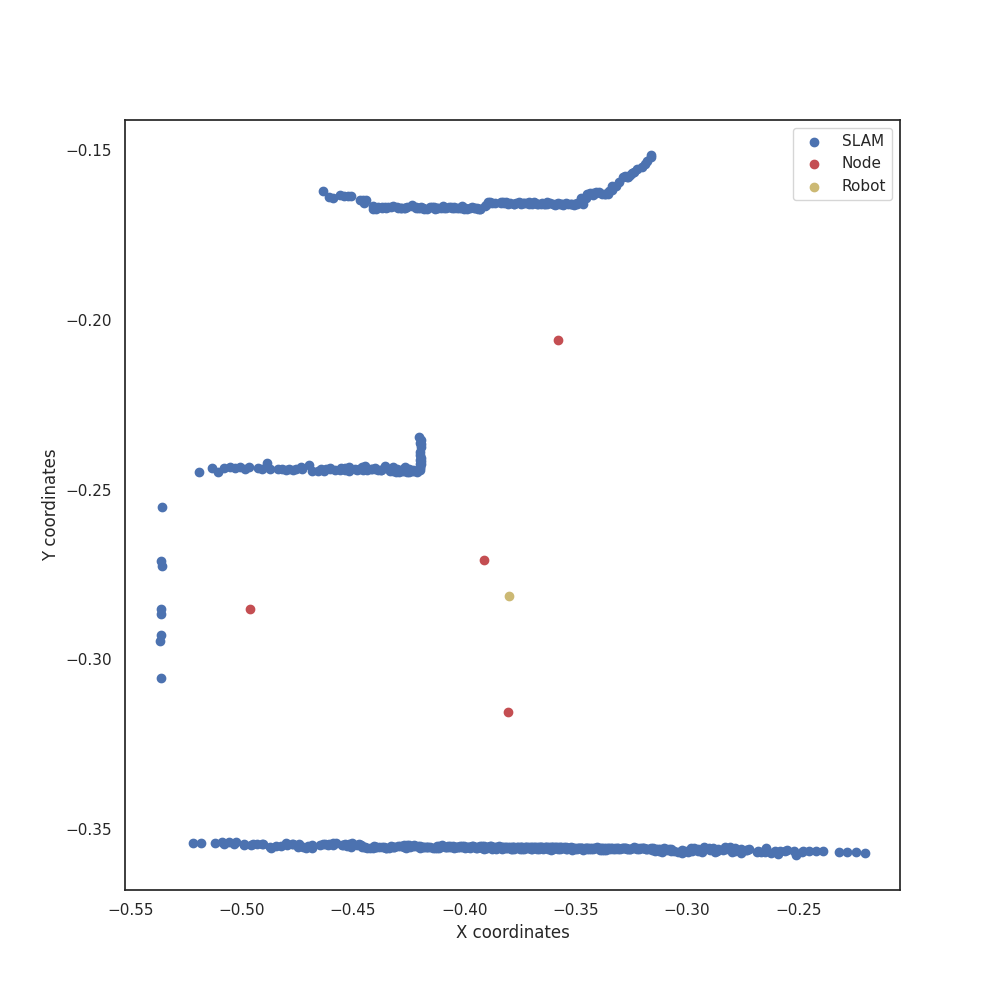
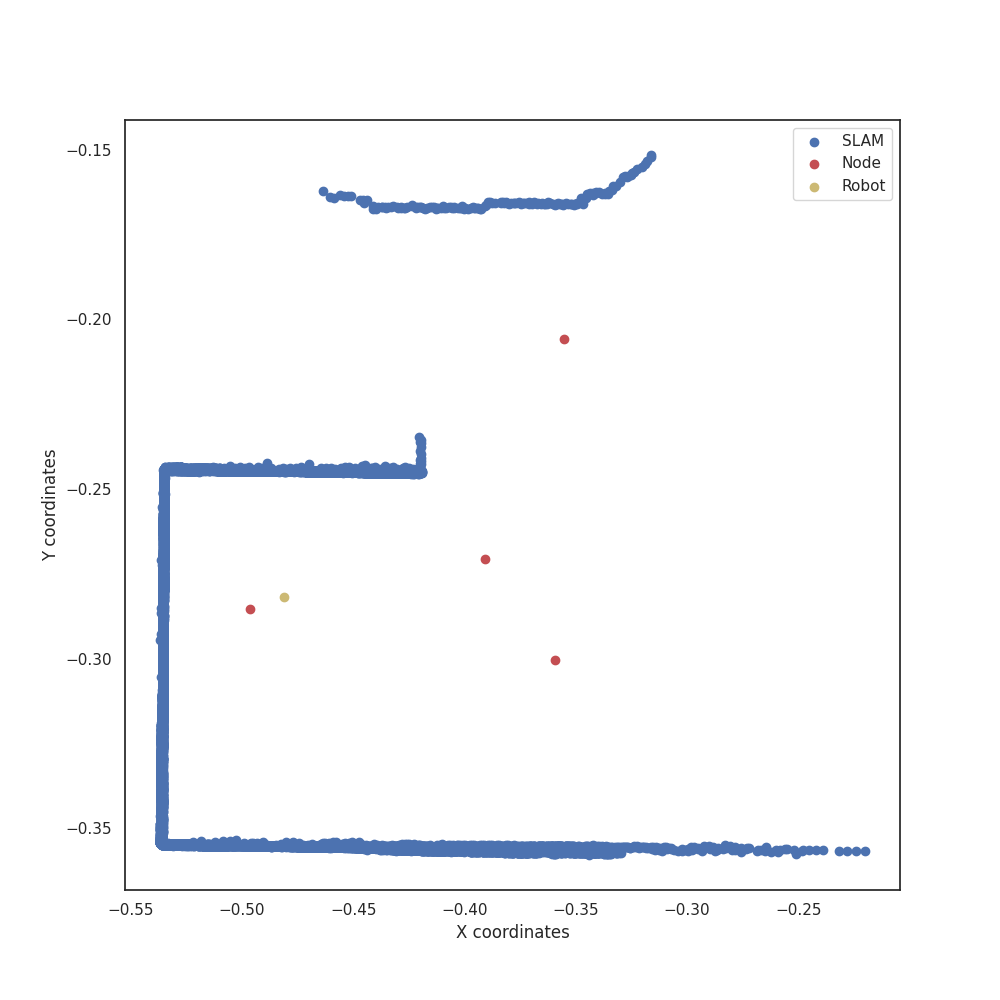
Ele faz faz uma parte da DFS, porem nao vai direito ( WIP)

diff --git a/src/slam_navigation.py b/src/slam_navigation.py
@@ -39,13 +39,15 @@ class Navigation:
     # Define o nó atual com base na posição GPS
     def set_current_node(self, gps_position: list) -> None:
         for node in self.existing_nodes:
-            # Verifica se a posição GPS coincide com algum node existente (considerando imprecisão)
-            if all(node_coord + THRESHOLD_SLAM > gps_coord and node_coord - THRESHOLD_SLAM < gps_coord 
-                   for node_coord, gps_coord in zip(node.get_node_position(), gps_position)):
+            node_pos = node.get_node_position()
+            distance = np.hypot(node_pos[0]-gps_position[0], node_pos[1]-gps_position[1])
+            # Aumente a tolerância para reconhecer nodes próximos
+            if distance <= THRESHOLD_SLAM * 1.5:  # 50% a mais de tolerância
                 self.current_node = node
                 return
-        
+        # Cria novo node somente se realmente não existir
         self.current_node = Node(gps_position, None)
+        self.existing_nodes.add(self.current_node)
         
     
     def move_to_node(self, node_position: list, robot_start_position : list, start_orientation : float, robot: Robot, direction: str) -> bool:
@@ -54,39 +56,56 @@ class Navigation:
         dx = node_position[0] - start_pos[0]
         dy = node_position[1] - start_pos[1]
         target_distance = np.hypot(dx, dy)
+
+        if target_distance <= THRESHOLD_SLAM:
+            print("Já está próximo do node. Ignorando movimento.")
+            return True
         
         if direction == "backward":
-            robot.motor.set_velocity(-0.5*MAX_SPEED, -0.5*MAX_SPEED)
-        else:
-            dx = node_position[0] - start_pos[0]
-            dy = node_position[1] - start_pos[1]
+            # Novo cálculo de ângulo para movimento reverso
+            dx_parent = node_position[0] - start_pos[0]
+            dy_parent = node_position[1] - start_pos[1]
             
+            target_angle = np.arctan2(-dy_parent, dx_parent)  # Ângulo inverso
+            if target_angle < 0:
+                target_angle += 2 * np.pi
+            
+            current_angle = robot.imu.get_rotation_angle()
+            theta = (target_angle - current_angle + np.pi) % (2 * np.pi) - np.pi
+            
+            # Gira antes de mover para trás
+            robot.rotate_to_angle(-theta)
+            robot.motor.set_velocity(-0.5 * MAX_SPEED, -0.5 * MAX_SPEED)
+        else:
+
             # Corrige arctan2 para seu sistema de coordenadas (y cresce para baixo, ângulo horário)
             target_angle = np.arctan2(-dy, dx)
             if target_angle < 0:
-                target_angle += 2 * np.pi
+                target_angle += 2 * np.pi - start_orientation
 
             current_angle = robot.imu.get_rotation_angle()
 
             # Diferença angular, normalizada para [-π, π]
-            theta = (target_angle - current_angle + np.pi) % (2 * np.pi) - np.pi
+            theta = (target_angle - current_angle + np.pi) % (2 * np.pi) - np.pi + current_angle
 
             robot.rotate_to_angle(-theta)
             robot.motor.set_velocity(0.8 * MAX_SPEED, 0.8 * MAX_SPEED)
 
-        
-        # Controle de movimento baseado na distância percorrida
+        previous_distance = float('inf')  # Inicializa com um valor infinito
         while True:
             robot.step()
             current_pos = robot.gps.get_position_AUGUSTO()
             remaining_distance = np.hypot(node_position[0] - current_pos[0],
-                                          node_position[1] - current_pos[1])
-            print(f"Remaining distance: {remaining_distance} | Target: {target_distance}")
-            if remaining_distance <= THRESHOLD_SLAM:
+                                        node_position[1] - current_pos[1])
+            
+            # Condição de parada aprimorada
+            if remaining_distance <= THRESHOLD_SLAM or remaining_distance > previous_distance:
                 break
+            previous_distance = remaining_distance
 
         robot.motor.stop()
-        return True
+        return remaining_distance <= THRESHOLD_SLAM  # Retorna bool real
+    
 
     # Identifica e adiciona novos nodes com base nos pontos do SLAM
     def get_node(self, listx: list, listy: list, robot_position: list) -> None:
@@ -177,16 +196,29 @@ class Navigation:
         # Backtracking
         if len(self.stack_visited_node) > 1:
             print("Iniciando backtracking...")
-            self.stack_visited_node.pop()  # remove o atual
-            parent_node = self.stack_visited_node[-1]  # pega o pai sem remover
-            
+            current_node = self.stack_visited_node.pop()  # Remove o nó atual
+            parent_node = self.stack_visited_node[-1]  # Pega o nó pai
+
             print(f"Retornando para nó anterior: {parent_node.get_node_position()}")
-            success = self.move_to_node(parent_node.get_node_position(), robot.gps.get_position_AUGUSTO(), robot_orientation, robot, 'backward')
+            
+            # Calcula a direção correta para o pai
+            success = self.move_to_node(
+                parent_node.get_node_position(), 
+                robot.gps.get_position_AUGUSTO(), 
+                robot.imu.get_rotation_angle(),  # Usa o ângulo ATUAL
+                robot, 
+                'backward'
+            )
+            
             if success:
                 self.current_node = parent_node
+                parent_node.visit_node()  # Marca o pai como revisitado
                 return self.slam_dfs(robot.gps.get_position_AUGUSTO(), 
                                 robot.lidar.get_distances_by_side_angle_AUGUSTO(), 
                                 robot.imu.get_rotation_angle(), robot, maze, parent_node)
+            else:
+                print("Falha no backtracking! Abortando...")
+                return []
         
         print("Exploração concluída")
         return []

diff --git a/src/Node.py b/src/Node.py
@@ -15,8 +15,7 @@ class Node:
         return f"Node: \n\t x = {self.node_position[0]}, y = {self.node_position[1]} \n\t size_adj = {len(self.nodes_adjacentes)}"
 
     def __hash__(self):
-        # Se a posição for None, retorna um hash fixo; caso contrário, usa a tupla da posição
-        return hash(tuple(self.node_position)) if self.node_position is not None else 0
+        return hash((self.node_position[0], self.node_position[1])) if self.node_position else 0
 
     def __eq__(self, other):
         if not isinstance(other, Node):
@@ -41,17 +40,10 @@ class Node:
 
 
     def calculate_min_node(self, current: Node) -> Node:
-        min_distance = float('inf')
-        min_node = None
-        for n in self.nodes_adjacentes:
-            pos = n.get_node_position()
-            current_pos = current.get_node_position()
-            if pos is None or current_pos is None:
-                continue
-            if not n.node_visited:
-                distance = np.hypot(pos[0] - current_pos[0], pos[1] - current_pos[1])
-                if distance < min_distance:
-                    min_distance = distance
-                    min_node = n
-        return min_node
+        return min(
+            (n for n in self.nodes_adjacentes if not n.node_visited),
+            key=lambda n: np.hypot(n.node_position[0]-current.node_position[0],
+                                n.node_position[1]-current.node_position[1]),
+            default=None
+        )
 

diff --git a/auxiliar_codes/log_client/data_receiver_augusto.py b/auxiliar_codes/log_client/data_receiver_augusto.py
@@ -11,7 +11,7 @@ LOG_PATH = os.getenv("LOG_PATH", "./.logs/log.txt")
 
 # Defina o diretório de upload
 UPLOAD_FOLDER = '/home/alunoc/git_projects/LARCv1/SLAM_IMAGES' # PC DO ETAPA
-#UPLOAD_FOLDER = r"C:\Users\Pichau\Desktop\LARCV1\SLAM_IMAGES"  #Meu PC
+#UPLOAD_FOLDER = r"C:\Users\Pichau\Des  ktop\LARCV1\SLAM_IMAGES"  #Meu PC
 app.config['UPLOAD_FOLDER'] = UPLOAD_FOLDER
 
 # Certifique-se de que o diretório de upload existe

diff --git a/src/slam.py b/src/slam.py
@@ -37,7 +37,7 @@ class Slam:
         for side_angle, distance in side_angle_to_distance_mapper.items():
             if distance == float("inf"):
                 continue
-            if distance < 0.18 : 
+            if distance < 0.36 : 
                 corrected_angle = side_angle + self.start_angle + orientation
 
                 distance_x = distance*np.cos(corrected_angle) + x0
